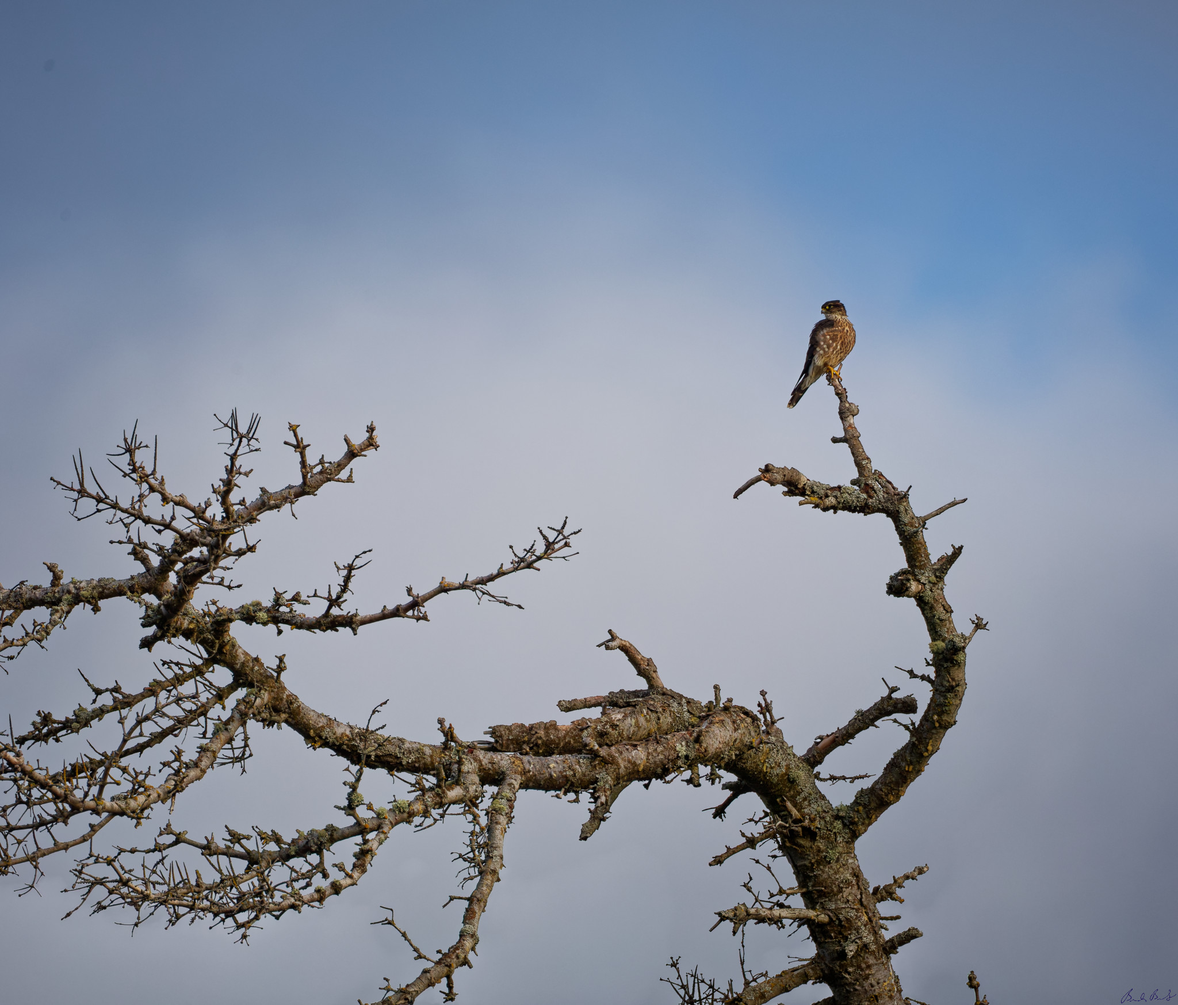
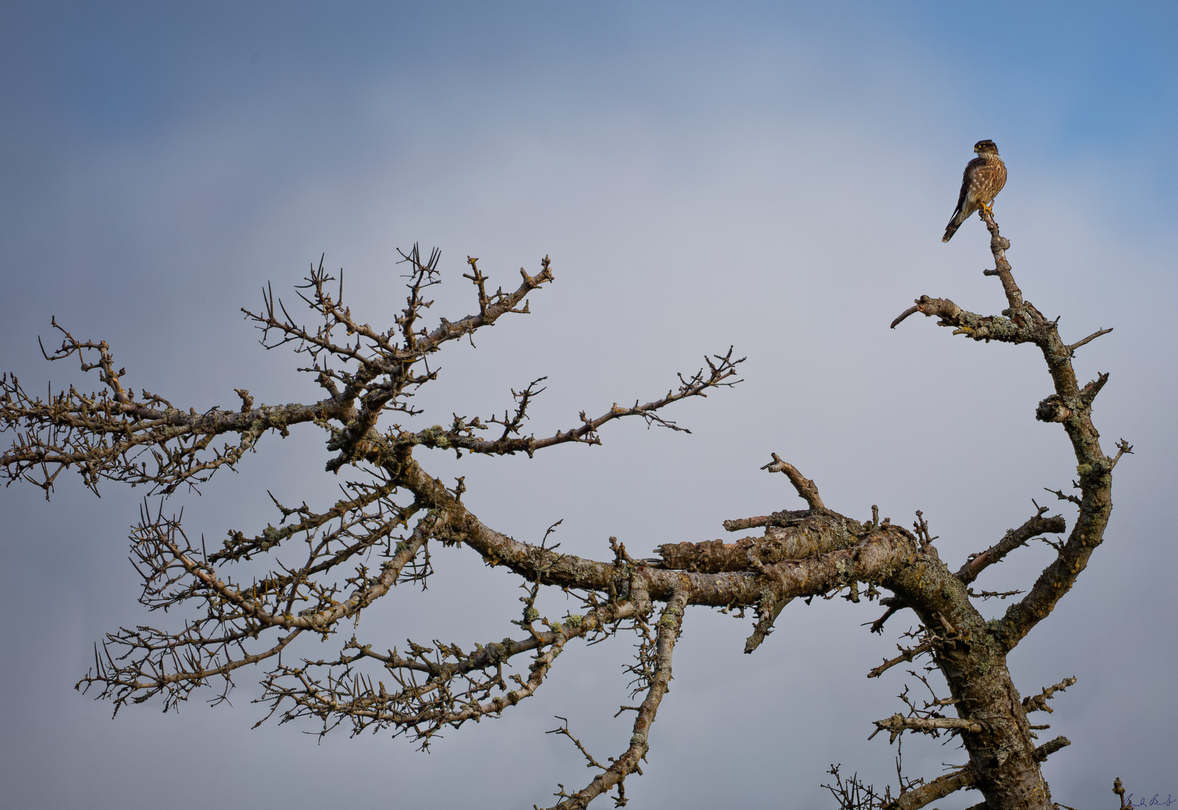
Add new photos and update existing ones in the pics/photos directory
- Added new images: 118A7140_DxO.jpg, 118A7902_DxO.jpg, and 118A8324_DxO.jpg
- Updated existing image: 118A7624_DxO.jpg

diff --git a/photography.html b/photography.html
@@ -41,194 +41,197 @@
     <main id="photography-content">
       <h1>Photography</h1>
       <div class="photo-gallery">
-        <a href="pics/photos/118A7470_DxO.jpg"><img src="pics/photos/118A7470_DxO.jpg" alt="Photograph by Brandon Benton"></a>
-        <a href="pics/photos/118A7933_DxO.jpg"><img src="pics/photos/118A7933_DxO.jpg" alt="Photograph by Brandon Benton"></a>
-        <a href="pics/photos/118A8192_DxO.jpg"><img src="pics/photos/118A8192_DxO.jpg" alt="Photograph by Brandon Benton"></a>
-        <a href="pics/photos/118A8208_DxO.jpg"><img src="pics/photos/118A8208_DxO.jpg" alt="Photograph by Brandon Benton"></a>
-        <a href="pics/photos/118A8177_DxO.jpg"><img src="pics/photos/118A8177_DxO.jpg" alt="Photograph by Brandon Benton"></a>
-        <a href="pics/photos/118A8288_DxO.jpg"><img src="pics/photos/118A8288_DxO.jpg" alt="Photograph by Brandon Benton"></a>
-        <a href="pics/photos/118A8229_DxO.jpg"><img src="pics/photos/118A8229_DxO.jpg" alt="Photograph by Brandon Benton"></a>
-        <a href="pics/photos/118A8251_DxO.jpg"><img src="pics/photos/118A8251_DxO.jpg" alt="Photograph by Brandon Benton"></a>
-        <a href="pics/photos/118A8306_DxO.jpg"><img src="pics/photos/118A8306_DxO.jpg" alt="Photograph by Brandon Benton"></a>
-        <a href="pics/photos/118A8325_DxO.jpg"><img src="pics/photos/118A8325_DxO.jpg" alt="Photograph by Brandon Benton"></a>
         <a href="pics/photos/118A8439_DxO.jpg"><img src="pics/photos/118A8439_DxO.jpg" alt="Photograph by Brandon Benton"></a>
         <a href="pics/photos/118A8435_DxO.jpg"><img src="pics/photos/118A8435_DxO.jpg" alt="Photograph by Brandon Benton"></a>
-        <a href="pics/photos/118A8178_DxO.jpg"><img src="pics/photos/118A8178_DxO.jpg" alt="Photograph by Brandon Benton"></a>
+        <a href="pics/photos/118A8325_DxO.jpg"><img src="pics/photos/118A8325_DxO.jpg" alt="Photograph by Brandon Benton"></a>
+        <a href="pics/photos/118A8324_DxO.jpg"><img src="pics/photos/118A8324_DxO.jpg" alt="Photograph by Brandon Benton"></a>
+        <a href="pics/photos/118A8306_DxO.jpg"><img src="pics/photos/118A8306_DxO.jpg" alt="Photograph by Brandon Benton"></a>
+        <a href="pics/photos/118A8288_DxO.jpg"><img src="pics/photos/118A8288_DxO.jpg" alt="Photograph by Brandon Benton"></a>
+        <a href="pics/photos/118A8251_DxO.jpg"><img src="pics/photos/118A8251_DxO.jpg" alt="Photograph by Brandon Benton"></a>
+        <a href="pics/photos/118A8229_DxO.jpg"><img src="pics/photos/118A8229_DxO.jpg" alt="Photograph by Brandon Benton"></a>
+        <a href="pics/photos/118A8208_DxO.jpg"><img src="pics/photos/118A8208_DxO.jpg" alt="Photograph by Brandon Benton"></a>
+        <a href="pics/photos/118A8192_DxO.jpg"><img src="pics/photos/118A8192_DxO.jpg" alt="Photograph by Brandon Benton"></a>
         <a href="pics/photos/118A8180_DxO.jpg"><img src="pics/photos/118A8180_DxO.jpg" alt="Photograph by Brandon Benton"></a>
-        <a href="pics/photos/118A7599_DxO.jpg"><img src="pics/photos/118A7599_DxO.jpg" alt="Photograph by Brandon Benton"></a>
-        <a href="pics/photos/118A7892_DxO.jpg"><img src="pics/photos/118A7892_DxO.jpg" alt="Photograph by Brandon Benton"></a>
-        <a href="pics/photos/118A7944_DxO.jpg"><img src="pics/photos/118A7944_DxO.jpg" alt="Photograph by Brandon Benton"></a>
-        <a href="pics/photos/118A7946_DxO.jpg"><img src="pics/photos/118A7946_DxO.jpg" alt="Photograph by Brandon Benton"></a>
-        <a href="pics/photos/118A7947_DxO.jpg"><img src="pics/photos/118A7947_DxO.jpg" alt="Photograph by Brandon Benton"></a>
+        <a href="pics/photos/118A8178_DxO.jpg"><img src="pics/photos/118A8178_DxO.jpg" alt="Photograph by Brandon Benton"></a>
+        <a href="pics/photos/118A8177_DxO.jpg"><img src="pics/photos/118A8177_DxO.jpg" alt="Photograph by Brandon Benton"></a>
         <a href="pics/photos/118A8044_DxO.jpg"><img src="pics/photos/118A8044_DxO.jpg" alt="Photograph by Brandon Benton"></a>
         <a href="pics/photos/118A8011_DxO.jpg"><img src="pics/photos/118A8011_DxO.jpg" alt="Photograph by Brandon Benton"></a>
         <a href="pics/photos/118A7966_DxO.jpg"><img src="pics/photos/118A7966_DxO.jpg" alt="Photograph by Brandon Benton"></a>
-        <a href="pics/photos/118A7616_DxO.jpg"><img src="pics/photos/118A7616_DxO.jpg" alt="Photograph by Brandon Benton"></a>
-        <a href="pics/photos/118A7658_DxO.jpg"><img src="pics/photos/118A7658_DxO.jpg" alt="Photograph by Brandon Benton"></a>
-        <a href="pics/photos/118A7689_DxO.jpg"><img src="pics/photos/118A7689_DxO.jpg" alt="Photograph by Brandon Benton"></a>
-        <a href="pics/photos/118A7379_DxO.jpg"><img src="pics/photos/118A7379_DxO.jpg" alt="Photograph by Brandon Benton"></a>
-        <a href="pics/photos/118A7424_DxO.jpg"><img src="pics/photos/118A7424_DxO.jpg" alt="Photograph by Brandon Benton"></a>
-        <a href="pics/photos/118A7390_DxO.jpg"><img src="pics/photos/118A7390_DxO.jpg" alt="Photograph by Brandon Benton"></a>
-        <a href="pics/photos/118A7439_DxO.jpg"><img src="pics/photos/118A7439_DxO.jpg" alt="Photograph by Brandon Benton"></a>
-        <a href="pics/photos/118A7392_DxO.jpg"><img src="pics/photos/118A7392_DxO.jpg" alt="Photograph by Brandon Benton"></a>
+        <a href="pics/photos/118A7947_DxO.jpg"><img src="pics/photos/118A7947_DxO.jpg" alt="Photograph by Brandon Benton"></a>
+        <a href="pics/photos/118A7946_DxO.jpg"><img src="pics/photos/118A7946_DxO.jpg" alt="Photograph by Brandon Benton"></a>
+        <a href="pics/photos/118A7944_DxO.jpg"><img src="pics/photos/118A7944_DxO.jpg" alt="Photograph by Brandon Benton"></a>
+        <a href="pics/photos/118A7933_DxO.jpg"><img src="pics/photos/118A7933_DxO.jpg" alt="Photograph by Brandon Benton"></a>
+        <a href="pics/photos/118A7925_DxO.jpg"><img src="pics/photos/118A7925_DxO.jpg" alt="Photograph by Brandon Benton"></a>
         <a href="pics/photos/118A7912_DxO.jpg"><img src="pics/photos/118A7912_DxO.jpg" alt="Photograph by Brandon Benton"></a>
-        <a href="pics/photos/118A7620_DxO.jpg"><img src="pics/photos/118A7620_DxO.jpg" alt="Photograph by Brandon Benton"></a>
-        <a href="pics/photos/118A7624_DxO.jpg"><img src="pics/photos/118A7624_DxO.jpg" alt="Photograph by Brandon Benton"></a>
-        <a href="pics/photos/118A7788_DxO.jpg"><img src="pics/photos/118A7788_DxO.jpg" alt="Photograph by Brandon Benton"></a>
+        <a href="pics/photos/118A7902_DxO.jpg"><img src="pics/photos/118A7902_DxO.jpg" alt="Photograph by Brandon Benton"></a>
+        <a href="pics/photos/118A7892_DxO.jpg"><img src="pics/photos/118A7892_DxO.jpg" alt="Photograph by Brandon Benton"></a>
         <a href="pics/photos/118A7814_DxO.jpg"><img src="pics/photos/118A7814_DxO.jpg" alt="Photograph by Brandon Benton"></a>
         <a href="pics/photos/118A7810_DxO.jpg"><img src="pics/photos/118A7810_DxO.jpg" alt="Photograph by Brandon Benton"></a>
-        <a href="pics/photos/118A7925_DxO.jpg"><img src="pics/photos/118A7925_DxO.jpg" alt="Photograph by Brandon Benton"></a>
+        <a href="pics/photos/118A7788_DxO.jpg"><img src="pics/photos/118A7788_DxO.jpg" alt="Photograph by Brandon Benton"></a>
+        <a href="pics/photos/118A7689_DxO.jpg"><img src="pics/photos/118A7689_DxO.jpg" alt="Photograph by Brandon Benton"></a>
+        <a href="pics/photos/118A7658_DxO.jpg"><img src="pics/photos/118A7658_DxO.jpg" alt="Photograph by Brandon Benton"></a>
+        <a href="pics/photos/118A7624_DxO.jpg"><img src="pics/photos/118A7624_DxO.jpg" alt="Photograph by Brandon Benton"></a>
+        <a href="pics/photos/118A7620_DxO.jpg"><img src="pics/photos/118A7620_DxO.jpg" alt="Photograph by Brandon Benton"></a>
+        <a href="pics/photos/118A7616_DxO.jpg"><img src="pics/photos/118A7616_DxO.jpg" alt="Photograph by Brandon Benton"></a>
+        <a href="pics/photos/118A7599_DxO.jpg"><img src="pics/photos/118A7599_DxO.jpg" alt="Photograph by Brandon Benton"></a>
+        <a href="pics/photos/118A7470_DxO.jpg"><img src="pics/photos/118A7470_DxO.jpg" alt="Photograph by Brandon Benton"></a>
+        <a href="pics/photos/118A7439_DxO.jpg"><img src="pics/photos/118A7439_DxO.jpg" alt="Photograph by Brandon Benton"></a>
+        <a href="pics/photos/118A7424_DxO.jpg"><img src="pics/photos/118A7424_DxO.jpg" alt="Photograph by Brandon Benton"></a>
+        <a href="pics/photos/118A7392_DxO.jpg"><img src="pics/photos/118A7392_DxO.jpg" alt="Photograph by Brandon Benton"></a>
+        <a href="pics/photos/118A7390_DxO.jpg"><img src="pics/photos/118A7390_DxO.jpg" alt="Photograph by Brandon Benton"></a>
+        <a href="pics/photos/118A7379_DxO.jpg"><img src="pics/photos/118A7379_DxO.jpg" alt="Photograph by Brandon Benton"></a>
         <a href="pics/photos/118A7332_DxO.jpg"><img src="pics/photos/118A7332_DxO.jpg" alt="Photograph by Brandon Benton"></a>
-        <a href="pics/photos/118A7222_DxO.jpg"><img src="pics/photos/118A7222_DxO.jpg" alt="Photograph by Brandon Benton"></a>
-        <a href="pics/photos/118A7309_DxO.jpg"><img src="pics/photos/118A7309_DxO.jpg" alt="Photograph by Brandon Benton"></a>
-        <a href="pics/photos/118A7233_DxO.jpg"><img src="pics/photos/118A7233_DxO.jpg" alt="Photograph by Brandon Benton"></a>
-        <a href="pics/photos/118A7247_DxO.jpg"><img src="pics/photos/118A7247_DxO.jpg" alt="Photograph by Brandon Benton"></a>
         <a href="pics/photos/118A7314_DxO.jpg"><img src="pics/photos/118A7314_DxO.jpg" alt="Photograph by Brandon Benton"></a>
-        <a href="pics/photos/118A7240_DxO.jpg"><img src="pics/photos/118A7240_DxO.jpg" alt="Photograph by Brandon Benton"></a>
+        <a href="pics/photos/118A7310_DxO.jpg"><img src="pics/photos/118A7310_DxO.jpg" alt="Photograph by Brandon Benton"></a>
+        <a href="pics/photos/118A7309_DxO.jpg"><img src="pics/photos/118A7309_DxO.jpg" alt="Photograph by Brandon Benton"></a>
         <a href="pics/photos/118A7304_DxO.jpg"><img src="pics/photos/118A7304_DxO.jpg" alt="Photograph by Brandon Benton"></a>
         <a href="pics/photos/118A7262_DxO.jpg"><img src="pics/photos/118A7262_DxO.jpg" alt="Photograph by Brandon Benton"></a>
-        <a href="pics/photos/118A7310_DxO.jpg"><img src="pics/photos/118A7310_DxO.jpg" alt="Photograph by Brandon Benton"></a>
-        <a href="pics/photos/118A7142_DxO.jpg"><img src="pics/photos/118A7142_DxO.jpg" alt="Photograph by Brandon Benton"></a>
-        <a href="pics/photos/118A7158_DxO.jpg"><img src="pics/photos/118A7158_DxO.jpg" alt="Photograph by Brandon Benton"></a>
+        <a href="pics/photos/118A7247_DxO.jpg"><img src="pics/photos/118A7247_DxO.jpg" alt="Photograph by Brandon Benton"></a>
+        <a href="pics/photos/118A7240_DxO.jpg"><img src="pics/photos/118A7240_DxO.jpg" alt="Photograph by Brandon Benton"></a>
+        <a href="pics/photos/118A7233_DxO.jpg"><img src="pics/photos/118A7233_DxO.jpg" alt="Photograph by Brandon Benton"></a>
+        <a href="pics/photos/118A7222_DxO.jpg"><img src="pics/photos/118A7222_DxO.jpg" alt="Photograph by Brandon Benton"></a>
         <a href="pics/photos/118A7162_DxO.jpg"><img src="pics/photos/118A7162_DxO.jpg" alt="Photograph by Brandon Benton"></a>
+        <a href="pics/photos/118A7158_DxO.jpg"><img src="pics/photos/118A7158_DxO.jpg" alt="Photograph by Brandon Benton"></a>
+        <a href="pics/photos/118A7142_DxO.jpg"><img src="pics/photos/118A7142_DxO.jpg" alt="Photograph by Brandon Benton"></a>
+        <a href="pics/photos/118A7140_DxO.jpg"><img src="pics/photos/118A7140_DxO.jpg" alt="Photograph by Brandon Benton"></a>
         <a href="pics/photos/118A7126_DxO.jpg"><img src="pics/photos/118A7126_DxO.jpg" alt="Photograph by Brandon Benton"></a>
-        <a href="pics/photos/118A6766_DxO.jpg"><img src="pics/photos/118A6766_DxO.jpg" alt="Photograph by Brandon Benton"></a>
-        <a href="pics/photos/118A6771_DxO.jpg"><img src="pics/photos/118A6771_DxO.jpg" alt="Photograph by Brandon Benton"></a>
-        <a href="pics/photos/118A6759_DxO.jpg"><img src="pics/photos/118A6759_DxO.jpg" alt="Photograph by Brandon Benton"></a>
         <a href="pics/photos/118A7072_DxO.jpg"><img src="pics/photos/118A7072_DxO.jpg" alt="Photograph by Brandon Benton"></a>
-        <a href="pics/photos/118A6981_DxO.jpg"><img src="pics/photos/118A6981_DxO.jpg" alt="Photograph by Brandon Benton"></a>
-        <a href="pics/photos/118A7004_DxO.jpg"><img src="pics/photos/118A7004_DxO.jpg" alt="Photograph by Brandon Benton"></a>
-        <a href="pics/photos/118A7007_DxO.jpg"><img src="pics/photos/118A7007_DxO.jpg" alt="Photograph by Brandon Benton"></a>
-        <a href="pics/photos/118A7001_DxO.jpg"><img src="pics/photos/118A7001_DxO.jpg" alt="Photograph by Brandon Benton"></a>
-        <a href="pics/photos/118A6942_DxO.jpg"><img src="pics/photos/118A6942_DxO.jpg" alt="Photograph by Brandon Benton"></a>
-        <a href="pics/photos/118A6933_DxO.jpg"><img src="pics/photos/118A6933_DxO.jpg" alt="Photograph by Brandon Benton"></a>
-        <a href="pics/photos/118A6934_DxO.jpg"><img src="pics/photos/118A6934_DxO.jpg" alt="Photograph by Brandon Benton"></a>
-        <a href="pics/photos/118A6935_DxO.jpg"><img src="pics/photos/118A6935_DxO.jpg" alt="Photograph by Brandon Benton"></a>
-        <a href="pics/photos/118A6927_DxO.jpg"><img src="pics/photos/118A6927_DxO.jpg" alt="Photograph by Brandon Benton"></a>
-        <a href="pics/photos/118A6943_DxO.jpg"><img src="pics/photos/118A6943_DxO.jpg" alt="Photograph by Brandon Benton"></a>
         <a href="pics/photos/118A7009_DxO.jpg"><img src="pics/photos/118A7009_DxO.jpg" alt="Photograph by Brandon Benton"></a>
-        <a href="pics/photos/118A1707_DxO.jpg"><img src="pics/photos/118A1707_DxO.jpg" alt="Photograph by Brandon Benton"></a>
-        <a href="pics/photos/118A6454_DxO.jpg"><img src="pics/photos/118A6454_DxO.jpg" alt="Photograph by Brandon Benton"></a>
-        <a href="pics/photos/118A6246_DxO.jpg"><img src="pics/photos/118A6246_DxO.jpg" alt="Photograph by Brandon Benton"></a>
-        <a href="pics/photos/118A6232_DxO.jpg"><img src="pics/photos/118A6232_DxO.jpg" alt="Photograph by Brandon Benton"></a>
-        <a href="pics/photos/118A6254_DxO.jpg"><img src="pics/photos/118A6254_DxO.jpg" alt="Photograph by Brandon Benton"></a>
-        <a href="pics/photos/118A6330_DxO.jpg"><img src="pics/photos/118A6330_DxO.jpg" alt="Photograph by Brandon Benton"></a>
-        <a href="pics/photos/118A6418_DxO.jpg"><img src="pics/photos/118A6418_DxO.jpg" alt="Photograph by Brandon Benton"></a>
-        <a href="pics/photos/118A6445_DxO.jpg"><img src="pics/photos/118A6445_DxO.jpg" alt="Photograph by Brandon Benton"></a>
+        <a href="pics/photos/118A7007_DxO.jpg"><img src="pics/photos/118A7007_DxO.jpg" alt="Photograph by Brandon Benton"></a>
+        <a href="pics/photos/118A7004_DxO.jpg"><img src="pics/photos/118A7004_DxO.jpg" alt="Photograph by Brandon Benton"></a>
+        <a href="pics/photos/118A7001_DxO.jpg"><img src="pics/photos/118A7001_DxO.jpg" alt="Photograph by Brandon Benton"></a>
+        <a href="pics/photos/118A6981_DxO.jpg"><img src="pics/photos/118A6981_DxO.jpg" alt="Photograph by Brandon Benton"></a>
+        <a href="pics/photos/118A6943_DxO.jpg"><img src="pics/photos/118A6943_DxO.jpg" alt="Photograph by Brandon Benton"></a>
+        <a href="pics/photos/118A6942_DxO.jpg"><img src="pics/photos/118A6942_DxO.jpg" alt="Photograph by Brandon Benton"></a>
+        <a href="pics/photos/118A6935_DxO.jpg"><img src="pics/photos/118A6935_DxO.jpg" alt="Photograph by Brandon Benton"></a>
+        <a href="pics/photos/118A6934_DxO.jpg"><img src="pics/photos/118A6934_DxO.jpg" alt="Photograph by Brandon Benton"></a>
+        <a href="pics/photos/118A6933_DxO.jpg"><img src="pics/photos/118A6933_DxO.jpg" alt="Photograph by Brandon Benton"></a>
+        <a href="pics/photos/118A6927_DxO.jpg"><img src="pics/photos/118A6927_DxO.jpg" alt="Photograph by Brandon Benton"></a>
+        <a href="pics/photos/118A6771_DxO.jpg"><img src="pics/photos/118A6771_DxO.jpg" alt="Photograph by Brandon Benton"></a>
+        <a href="pics/photos/118A6766_DxO.jpg"><img src="pics/photos/118A6766_DxO.jpg" alt="Photograph by Brandon Benton"></a>
+        <a href="pics/photos/118A6759_DxO.jpg"><img src="pics/photos/118A6759_DxO.jpg" alt="Photograph by Brandon Benton"></a>
         <a href="pics/photos/118A6458_DxO.jpg"><img src="pics/photos/118A6458_DxO.jpg" alt="Photograph by Brandon Benton"></a>
+        <a href="pics/photos/118A6454_DxO.jpg"><img src="pics/photos/118A6454_DxO.jpg" alt="Photograph by Brandon Benton"></a>
+        <a href="pics/photos/118A6445_DxO.jpg"><img src="pics/photos/118A6445_DxO.jpg" alt="Photograph by Brandon Benton"></a>
+        <a href="pics/photos/118A6418_DxO.jpg"><img src="pics/photos/118A6418_DxO.jpg" alt="Photograph by Brandon Benton"></a>
         <a href="pics/photos/118A6396_DxO.jpg"><img src="pics/photos/118A6396_DxO.jpg" alt="Photograph by Brandon Benton"></a>
+        <a href="pics/photos/118A6372_DxO.jpg"><img src="pics/photos/118A6372_DxO.jpg" alt="Photograph by Brandon Benton"></a>
+        <a href="pics/photos/118A6349_DxO.jpg"><img src="pics/photos/118A6349_DxO.jpg" alt="Photograph by Brandon Benton"></a>
+        <a href="pics/photos/118A6330_DxO.jpg"><img src="pics/photos/118A6330_DxO.jpg" alt="Photograph by Brandon Benton"></a>
         <a href="pics/photos/118A6317_DxO.jpg"><img src="pics/photos/118A6317_DxO.jpg" alt="Photograph by Brandon Benton"></a>
         <a href="pics/photos/118A6289_DxO.jpg"><img src="pics/photos/118A6289_DxO.jpg" alt="Photograph by Brandon Benton"></a>
-        <a href="pics/photos/118A6349_DxO.jpg"><img src="pics/photos/118A6349_DxO.jpg" alt="Photograph by Brandon Benton"></a>
-        <a href="pics/photos/118A6372_DxO.jpg"><img src="pics/photos/118A6372_DxO.jpg" alt="Photograph by Brandon Benton"></a>
-        <a href="pics/photos/118A5537_DxO.jpg"><img src="pics/photos/118A5537_DxO.jpg" alt="Photograph by Brandon Benton"></a>
-        <a href="pics/photos/118A6047_DxO.jpg"><img src="pics/photos/118A6047_DxO.jpg" alt="Photograph by Brandon Benton"></a>
-        <a href="pics/photos/118A6083_DxO.jpg"><img src="pics/photos/118A6083_DxO.jpg" alt="Photograph by Brandon Benton"></a>
-        <a href="pics/photos/118A6088_DxO.jpg"><img src="pics/photos/118A6088_DxO.jpg" alt="Photograph by Brandon Benton"></a>
-        <a href="pics/photos/118A6089_DxO.jpg"><img src="pics/photos/118A6089_DxO.jpg" alt="Photograph by Brandon Benton"></a>
-        <a href="pics/photos/118A6090_DxO.jpg"><img src="pics/photos/118A6090_DxO.jpg" alt="Photograph by Brandon Benton"></a>
+        <a href="pics/photos/118A6254_DxO.jpg"><img src="pics/photos/118A6254_DxO.jpg" alt="Photograph by Brandon Benton"></a>
+        <a href="pics/photos/118A6246_DxO.jpg"><img src="pics/photos/118A6246_DxO.jpg" alt="Photograph by Brandon Benton"></a>
+        <a href="pics/photos/118A6232_DxO.jpg"><img src="pics/photos/118A6232_DxO.jpg" alt="Photograph by Brandon Benton"></a>
         <a href="pics/photos/118A6093_DxO.jpg"><img src="pics/photos/118A6093_DxO.jpg" alt="Photograph by Brandon Benton"></a>
+        <a href="pics/photos/118A6090_DxO.jpg"><img src="pics/photos/118A6090_DxO.jpg" alt="Photograph by Brandon Benton"></a>
+        <a href="pics/photos/118A6089_DxO.jpg"><img src="pics/photos/118A6089_DxO.jpg" alt="Photograph by Brandon Benton"></a>
+        <a href="pics/photos/118A6088_DxO.jpg"><img src="pics/photos/118A6088_DxO.jpg" alt="Photograph by Brandon Benton"></a>
+        <a href="pics/photos/118A6083_DxO.jpg"><img src="pics/photos/118A6083_DxO.jpg" alt="Photograph by Brandon Benton"></a>
+        <a href="pics/photos/118A6047_DxO.jpg"><img src="pics/photos/118A6047_DxO.jpg" alt="Photograph by Brandon Benton"></a>
         <a href="pics/photos/118A6045_DxO.jpg"><img src="pics/photos/118A6045_DxO.jpg" alt="Photograph by Brandon Benton"></a>
+        <a href="pics/photos/118A6007_DxO.jpg"><img src="pics/photos/118A6007_DxO.jpg" alt="Photograph by Brandon Benton"></a>
         <a href="pics/photos/118A5931_DxO.jpg"><img src="pics/photos/118A5931_DxO.jpg" alt="Photograph by Brandon Benton"></a>
         <a href="pics/photos/118A5928_DxO.jpg"><img src="pics/photos/118A5928_DxO.jpg" alt="Photograph by Brandon Benton"></a>
         <a href="pics/photos/118A5908_DxO.jpg"><img src="pics/photos/118A5908_DxO.jpg" alt="Photograph by Brandon Benton"></a>
         <a href="pics/photos/118A5877_DxO.jpg"><img src="pics/photos/118A5877_DxO.jpg" alt="Photograph by Brandon Benton"></a>
-        <a href="pics/photos/118A6007_DxO.jpg"><img src="pics/photos/118A6007_DxO.jpg" alt="Photograph by Brandon Benton"></a>
-        <a href="pics/photos/118A5659_DxO.jpg"><img src="pics/photos/118A5659_DxO.jpg" alt="Photograph by Brandon Benton"></a>
-        <a href="pics/photos/118A5338_DxO.jpg"><img src="pics/photos/118A5338_DxO.jpg" alt="Photograph by Brandon Benton"></a>
-        <a href="pics/photos/118A5208_DxO-1.jpg"><img src="pics/photos/118A5208_DxO-1.jpg" alt="Photograph by Brandon Benton"></a>
-        <a href="pics/photos/118A5208_DxO.jpg"><img src="pics/photos/118A5208_DxO.jpg" alt="Photograph by Brandon Benton"></a>
-        <a href="pics/photos/118A5221_DxO.jpg"><img src="pics/photos/118A5221_DxO.jpg" alt="Photograph by Brandon Benton"></a>
-        <a href="pics/photos/118A5206_DxO.jpg"><img src="pics/photos/118A5206_DxO.jpg" alt="Photograph by Brandon Benton"></a>
-        <a href="pics/photos/118A5115_DxO.jpg"><img src="pics/photos/118A5115_DxO.jpg" alt="Photograph by Brandon Benton"></a>
-        <a href="pics/photos/118A5808_DxO.jpg"><img src="pics/photos/118A5808_DxO.jpg" alt="Photograph by Brandon Benton"></a>
-        <a href="pics/photos/118A5814_DxO.jpg"><img src="pics/photos/118A5814_DxO.jpg" alt="Photograph by Brandon Benton"></a>
         <a href="pics/photos/118A5859_DxO.jpg"><img src="pics/photos/118A5859_DxO.jpg" alt="Photograph by Brandon Benton"></a>
-        <a href="pics/photos/118A5590_DxO.jpg"><img src="pics/photos/118A5590_DxO.jpg" alt="Photograph by Brandon Benton"></a>
+        <a href="pics/photos/118A5814_DxO.jpg"><img src="pics/photos/118A5814_DxO.jpg" alt="Photograph by Brandon Benton"></a>
+        <a href="pics/photos/118A5808_DxO.jpg"><img src="pics/photos/118A5808_DxO.jpg" alt="Photograph by Brandon Benton"></a>
+        <a href="pics/photos/118A5659_DxO.jpg"><img src="pics/photos/118A5659_DxO.jpg" alt="Photograph by Brandon Benton"></a>
         <a href="pics/photos/118A5617_DxO.jpg"><img src="pics/photos/118A5617_DxO.jpg" alt="Photograph by Brandon Benton"></a>
-        <a href="pics/photos/118A5102_DxO.jpg"><img src="pics/photos/118A5102_DxO.jpg" alt="Photograph by Brandon Benton"></a>
+        <a href="pics/photos/118A5590_DxO.jpg"><img src="pics/photos/118A5590_DxO.jpg" alt="Photograph by Brandon Benton"></a>
+        <a href="pics/photos/118A5537_DxO.jpg"><img src="pics/photos/118A5537_DxO.jpg" alt="Photograph by Brandon Benton"></a>
         <a href="pics/photos/118A5444_DxO.jpg"><img src="pics/photos/118A5444_DxO.jpg" alt="Photograph by Brandon Benton"></a>
+        <a href="pics/photos/118A5338_DxO.jpg"><img src="pics/photos/118A5338_DxO.jpg" alt="Photograph by Brandon Benton"></a>
         <a href="pics/photos/118A5302_DxO.jpg"><img src="pics/photos/118A5302_DxO.jpg" alt="Photograph by Brandon Benton"></a>
         <a href="pics/photos/118A5287_DxO.jpg"><img src="pics/photos/118A5287_DxO.jpg" alt="Photograph by Brandon Benton"></a>
         <a href="pics/photos/118A5282_DxO.jpg"><img src="pics/photos/118A5282_DxO.jpg" alt="Photograph by Brandon Benton"></a>
         <a href="pics/photos/118A5279_DxO.jpg"><img src="pics/photos/118A5279_DxO.jpg" alt="Photograph by Brandon Benton"></a>
         <a href="pics/photos/118A5230_DxO.jpg"><img src="pics/photos/118A5230_DxO.jpg" alt="Photograph by Brandon Benton"></a>
+        <a href="pics/photos/118A5221_DxO.jpg"><img src="pics/photos/118A5221_DxO.jpg" alt="Photograph by Brandon Benton"></a>
         <a href="pics/photos/118A5220_DxO.jpg"><img src="pics/photos/118A5220_DxO.jpg" alt="Photograph by Brandon Benton"></a>
         <a href="pics/photos/118A5212_DxO.jpg"><img src="pics/photos/118A5212_DxO.jpg" alt="Photograph by Brandon Benton"></a>
+        <a href="pics/photos/118A5208_DxO-1.jpg"><img src="pics/photos/118A5208_DxO-1.jpg" alt="Photograph by Brandon Benton"></a>
+        <a href="pics/photos/118A5208_DxO.jpg"><img src="pics/photos/118A5208_DxO.jpg" alt="Photograph by Brandon Benton"></a>
+        <a href="pics/photos/118A5206_DxO.jpg"><img src="pics/photos/118A5206_DxO.jpg" alt="Photograph by Brandon Benton"></a>
         <a href="pics/photos/118A5205_DxO.jpg"><img src="pics/photos/118A5205_DxO.jpg" alt="Photograph by Brandon Benton"></a>
         <a href="pics/photos/118A5195_DxO.jpg"><img src="pics/photos/118A5195_DxO.jpg" alt="Photograph by Brandon Benton"></a>
+        <a href="pics/photos/118A5171_DxO.jpg"><img src="pics/photos/118A5171_DxO.jpg" alt="Photograph by Brandon Benton"></a>
         <a href="pics/photos/118A5163_DxO.jpg"><img src="pics/photos/118A5163_DxO.jpg" alt="Photograph by Brandon Benton"></a>
         <a href="pics/photos/118A5157_DxO.jpg"><img src="pics/photos/118A5157_DxO.jpg" alt="Photograph by Brandon Benton"></a>
         <a href="pics/photos/118A5152_DxO.jpg"><img src="pics/photos/118A5152_DxO.jpg" alt="Photograph by Brandon Benton"></a>
-        <a href="pics/photos/118A5171_DxO.jpg"><img src="pics/photos/118A5171_DxO.jpg" alt="Photograph by Brandon Benton"></a>
         <a href="pics/photos/118A5147_DxO.jpg"><img src="pics/photos/118A5147_DxO.jpg" alt="Photograph by Brandon Benton"></a>
-        <a href="pics/photos/IMG_3960_DxO.jpg"><img src="pics/photos/IMG_3960_DxO.jpg" alt="Photograph by Brandon Benton"></a>
-        <a href="pics/photos/IMG_3677_DxO.jpg"><img src="pics/photos/IMG_3677_DxO.jpg" alt="Photograph by Brandon Benton"></a>
+        <a href="pics/photos/118A5115_DxO.jpg"><img src="pics/photos/118A5115_DxO.jpg" alt="Photograph by Brandon Benton"></a>
+        <a href="pics/photos/118A5102_DxO.jpg"><img src="pics/photos/118A5102_DxO.jpg" alt="Photograph by Brandon Benton"></a>
+        <a href="pics/photos/118A4760_DxO.jpg"><img src="pics/photos/118A4760_DxO.jpg" alt="Photograph by Brandon Benton"></a>
+        <a href="pics/photos/118A4759_DxO.jpg"><img src="pics/photos/118A4759_DxO.jpg" alt="Photograph by Brandon Benton"></a>
+        <a href="pics/photos/118A4746_DxO.jpg"><img src="pics/photos/118A4746_DxO.jpg" alt="Photograph by Brandon Benton"></a>
+        <a href="pics/photos/118A4711_DxO.jpg"><img src="pics/photos/118A4711_DxO.jpg" alt="Photograph by Brandon Benton"></a>
+        <a href="pics/photos/118A4677_DxO.jpg"><img src="pics/photos/118A4677_DxO.jpg" alt="Photograph by Brandon Benton"></a>
+        <a href="pics/photos/118A4676_DxO.jpg"><img src="pics/photos/118A4676_DxO.jpg" alt="Photograph by Brandon Benton"></a>
+        <a href="pics/photos/118A4652_DxO.jpg"><img src="pics/photos/118A4652_DxO.jpg" alt="Photograph by Brandon Benton"></a>
+        <a href="pics/photos/118A4645_DxO.jpg"><img src="pics/photos/118A4645_DxO.jpg" alt="Photograph by Brandon Benton"></a>
+        <a href="pics/photos/118A4631_DxO.jpg"><img src="pics/photos/118A4631_DxO.jpg" alt="Photograph by Brandon Benton"></a>
+        <a href="pics/photos/118A4578_DxO.jpg"><img src="pics/photos/118A4578_DxO.jpg" alt="Photograph by Brandon Benton"></a>
+        <a href="pics/photos/118A4522_DxO.jpg"><img src="pics/photos/118A4522_DxO.jpg" alt="Photograph by Brandon Benton"></a>
+        <a href="pics/photos/118A4296_DxO.jpg"><img src="pics/photos/118A4296_DxO.jpg" alt="Photograph by Brandon Benton"></a>
+        <a href="pics/photos/118A4288_DxO.jpg"><img src="pics/photos/118A4288_DxO.jpg" alt="Photograph by Brandon Benton"></a>
+        <a href="pics/photos/118A4262_DxO.jpg"><img src="pics/photos/118A4262_DxO.jpg" alt="Photograph by Brandon Benton"></a>
+        <a href="pics/photos/118A4142_DxO.jpg"><img src="pics/photos/118A4142_DxO.jpg" alt="Photograph by Brandon Benton"></a>
+        <a href="pics/photos/118A4076_DxO.jpg"><img src="pics/photos/118A4076_DxO.jpg" alt="Photograph by Brandon Benton"></a>
+        <a href="pics/photos/118A4048_DxO-1.jpg"><img src="pics/photos/118A4048_DxO-1.jpg" alt="Photograph by Brandon Benton"></a>
+        <a href="pics/photos/118A4048_DxO.jpg"><img src="pics/photos/118A4048_DxO.jpg" alt="Photograph by Brandon Benton"></a>
+        <a href="pics/photos/118A3957_DxO.jpg"><img src="pics/photos/118A3957_DxO.jpg" alt="Photograph by Brandon Benton"></a>
+        <a href="pics/photos/118A3546_DxO.jpg"><img src="pics/photos/118A3546_DxO.jpg" alt="Photograph by Brandon Benton"></a>
+        <a href="pics/photos/118A3399_DxO.jpg"><img src="pics/photos/118A3399_DxO.jpg" alt="Photograph by Brandon Benton"></a>
+        <a href="pics/photos/118A3396_DxO.jpg"><img src="pics/photos/118A3396_DxO.jpg" alt="Photograph by Brandon Benton"></a>
+        <a href="pics/photos/118A2983_DxO.jpg"><img src="pics/photos/118A2983_DxO.jpg" alt="Photograph by Brandon Benton"></a>
+        <a href="pics/photos/118A2484_DxO.jpg"><img src="pics/photos/118A2484_DxO.jpg" alt="Photograph by Brandon Benton"></a>
+        <a href="pics/photos/118A2431_DxO.jpg"><img src="pics/photos/118A2431_DxO.jpg" alt="Photograph by Brandon Benton"></a>
+        <a href="pics/photos/118A2270_DxO.jpg"><img src="pics/photos/118A2270_DxO.jpg" alt="Photograph by Brandon Benton"></a>
+        <a href="pics/photos/118A1919_DxO.jpg"><img src="pics/photos/118A1919_DxO.jpg" alt="Photograph by Brandon Benton"></a>
+        <a href="pics/photos/118A1870_DxO.jpg"><img src="pics/photos/118A1870_DxO.jpg" alt="Photograph by Brandon Benton"></a>
+        <a href="pics/photos/118A1810_DxO.jpg"><img src="pics/photos/118A1810_DxO.jpg" alt="Photograph by Brandon Benton"></a>
+        <a href="pics/photos/118A1713_DxO.jpg"><img src="pics/photos/118A1713_DxO.jpg" alt="Photograph by Brandon Benton"></a>
+        <a href="pics/photos/118A1707_DxO.jpg"><img src="pics/photos/118A1707_DxO.jpg" alt="Photograph by Brandon Benton"></a>
+        <a href="pics/photos/118A0350_DxO.jpg"><img src="pics/photos/118A0350_DxO.jpg" alt="Photograph by Brandon Benton"></a>
+        <a href="pics/photos/118A0348_DxO.jpg"><img src="pics/photos/118A0348_DxO.jpg" alt="Photograph by Brandon Benton"></a>
+        <a href="pics/photos/118A9986_DxO.jpg"><img src="pics/photos/118A9986_DxO.jpg" alt="Photograph by Brandon Benton"></a>
+        <a href="pics/photos/118A9807_DxO.jpg"><img src="pics/photos/118A9807_DxO.jpg" alt="Photograph by Brandon Benton"></a>
+        <a href="pics/photos/118A9400_DxO.jpg"><img src="pics/photos/118A9400_DxO.jpg" alt="Photograph by Brandon Benton"></a>
+        <a href="pics/photos/4M6A9264_DxO.jpg"><img src="pics/photos/4M6A9264_DxO.jpg" alt="Photograph by Brandon Benton"></a>
+        <a href="pics/photos/4M6A9246_DxO.jpg"><img src="pics/photos/4M6A9246_DxO.jpg" alt="Photograph by Brandon Benton"></a>
         <a href="pics/photos/4M6A9177_DxO.jpg"><img src="pics/photos/4M6A9177_DxO.jpg" alt="Photograph by Brandon Benton"></a>
-        <a href="pics/photos/4M6A4996_DxO.jpg"><img src="pics/photos/4M6A4996_DxO.jpg" alt="Photograph by Brandon Benton"></a>
-        <a href="pics/photos/4M6A4992_DxO.jpg"><img src="pics/photos/4M6A4992_DxO.jpg" alt="Photograph by Brandon Benton"></a>
-        <a href="pics/photos/4M6A4995_DxO.jpg"><img src="pics/photos/4M6A4995_DxO.jpg" alt="Photograph by Brandon Benton"></a>
-        <a href="pics/photos/4M6A4924_DxO.jpg"><img src="pics/photos/4M6A4924_DxO.jpg" alt="Photograph by Brandon Benton"></a>
+        <a href="pics/photos/4M6A6647_DxO.jpg"><img src="pics/photos/4M6A6647_DxO.jpg" alt="Photograph by Brandon Benton"></a>
+        <a href="pics/photos/4M6A6136_DxO.jpg"><img src="pics/photos/4M6A6136_DxO.jpg" alt="Photograph by Brandon Benton"></a>
+        <a href="pics/photos/4M6A6122_DxO.jpg"><img src="pics/photos/4M6A6122_DxO.jpg" alt="Photograph by Brandon Benton"></a>
+        <a href="pics/photos/4M6A5968_DxO.jpg"><img src="pics/photos/4M6A5968_DxO.jpg" alt="Photograph by Brandon Benton"></a>
+        <a href="pics/photos/4M6A5931_DxO.jpg"><img src="pics/photos/4M6A5931_DxO.jpg" alt="Photograph by Brandon Benton"></a>
+        <a href="pics/photos/4M6A5347_DxO.jpg"><img src="pics/photos/4M6A5347_DxO.jpg" alt="Photograph by Brandon Benton"></a>
+        <a href="pics/photos/4M6A5337_DxO.jpg"><img src="pics/photos/4M6A5337_DxO.jpg" alt="Photograph by Brandon Benton"></a>
         <a href="pics/photos/4M6A5114_DxO.jpg"><img src="pics/photos/4M6A5114_DxO.jpg" alt="Photograph by Brandon Benton"></a>
         <a href="pics/photos/4M6A5111_DxO.jpg"><img src="pics/photos/4M6A5111_DxO.jpg" alt="Photograph by Brandon Benton"></a>
         <a href="pics/photos/4M6A5102_DxO.jpg"><img src="pics/photos/4M6A5102_DxO.jpg" alt="Photograph by Brandon Benton"></a>
         <a href="pics/photos/4M6A5096_DxO.jpg"><img src="pics/photos/4M6A5096_DxO.jpg" alt="Photograph by Brandon Benton"></a>
+        <a href="pics/photos/4M6A4996_DxO.jpg"><img src="pics/photos/4M6A4996_DxO.jpg" alt="Photograph by Brandon Benton"></a>
+        <a href="pics/photos/4M6A4995_DxO.jpg"><img src="pics/photos/4M6A4995_DxO.jpg" alt="Photograph by Brandon Benton"></a>
+        <a href="pics/photos/4M6A4992_DxO.jpg"><img src="pics/photos/4M6A4992_DxO.jpg" alt="Photograph by Brandon Benton"></a>
+        <a href="pics/photos/4M6A4924_DxO.jpg"><img src="pics/photos/4M6A4924_DxO.jpg" alt="Photograph by Brandon Benton"></a>
+        <a href="pics/photos/IMG_3960_DxO.jpg"><img src="pics/photos/IMG_3960_DxO.jpg" alt="Photograph by Brandon Benton"></a>
+        <a href="pics/photos/IMG_3801_DxO.jpg"><img src="pics/photos/IMG_3801_DxO.jpg" alt="Photograph by Brandon Benton"></a>
         <a href="pics/photos/IMG_3779_DxO.jpg"><img src="pics/photos/IMG_3779_DxO.jpg" alt="Photograph by Brandon Benton"></a>
+        <a href="pics/photos/IMG_3677_DxO.jpg"><img src="pics/photos/IMG_3677_DxO.jpg" alt="Photograph by Brandon Benton"></a>
+        <a href="pics/photos/IMG_3648_DxO.jpg"><img src="pics/photos/IMG_3648_DxO.jpg" alt="Photograph by Brandon Benton"></a>
+        <a href="pics/photos/IMG_3625_DxO.jpg"><img src="pics/photos/IMG_3625_DxO.jpg" alt="Photograph by Brandon Benton"></a>
+        <a href="pics/photos/IMG_3507_DxO.jpg"><img src="pics/photos/IMG_3507_DxO.jpg" alt="Photograph by Brandon Benton"></a>
+        <a href="pics/photos/20260710_8167_DxO.jpg"><img src="pics/photos/20260710_8167_DxO.jpg" alt="Photograph by Brandon Benton"></a>
         <a href="pics/photos/20260703_9553_DxO.jpg"><img src="pics/photos/20260703_9553_DxO.jpg" alt="Photograph by Brandon Benton"></a>
         <a href="pics/photos/20260703_1828_DxO.jpg"><img src="pics/photos/20260703_1828_DxO.jpg" alt="Photograph by Brandon Benton"></a>
-        <a href="pics/photos/IMG_3648_DxO.jpg"><img src="pics/photos/IMG_3648_DxO.jpg" alt="Photograph by Brandon Benton"></a>
-        <a href="pics/photos/IMG_3801_DxO.jpg"><img src="pics/photos/IMG_3801_DxO.jpg" alt="Photograph by Brandon Benton"></a>
-        <a href="pics/photos/IMG_3625_DxO.jpg"><img src="pics/photos/IMG_3625_DxO.jpg" alt="Photograph by Brandon Benton"></a>
-        <a href="pics/photos/118A4522_DxO.jpg"><img src="pics/photos/118A4522_DxO.jpg" alt="Photograph by Brandon Benton"></a>
-        <a href="pics/photos/118A4652_DxO.jpg"><img src="pics/photos/118A4652_DxO.jpg" alt="Photograph by Brandon Benton"></a>
-        <a href="pics/photos/4M6A6136_DxO.jpg"><img src="pics/photos/4M6A6136_DxO.jpg" alt="Photograph by Brandon Benton"></a>
-        <a href="pics/photos/118A4262_DxO.jpg"><img src="pics/photos/118A4262_DxO.jpg" alt="Photograph by Brandon Benton"></a>
-        <a href="pics/photos/118A4296_DxO.jpg"><img src="pics/photos/118A4296_DxO.jpg" alt="Photograph by Brandon Benton"></a>
-        <a href="pics/photos/118A4288_DxO.jpg"><img src="pics/photos/118A4288_DxO.jpg" alt="Photograph by Brandon Benton"></a>
-        <a href="pics/photos/20260703_1791_DxO.jpg"><img src="pics/photos/20260703_1791_DxO.jpg" alt="Photograph by Brandon Benton"></a>
+        <a href="pics/photos/20260703_1808_DxO.jpg"><img src="pics/photos/20260703_1808_DxO.jpg" alt="Photograph by Brandon Benton"></a>
         <a href="pics/photos/20260703_1806_DxO.jpg"><img src="pics/photos/20260703_1806_DxO.jpg" alt="Photograph by Brandon Benton"></a>
         <a href="pics/photos/20260703_1803_DxO.jpg"><img src="pics/photos/20260703_1803_DxO.jpg" alt="Photograph by Brandon Benton"></a>
-        <a href="pics/photos/20260703_1808_DxO.jpg"><img src="pics/photos/20260703_1808_DxO.jpg" alt="Photograph by Brandon Benton"></a>
-        <a href="pics/photos/118A4677_DxO.jpg"><img src="pics/photos/118A4677_DxO.jpg" alt="Photograph by Brandon Benton"></a>
-        <a href="pics/photos/118A4676_DxO.jpg"><img src="pics/photos/118A4676_DxO.jpg" alt="Photograph by Brandon Benton"></a>
-        <a href="pics/photos/118A4711_DxO.jpg"><img src="pics/photos/118A4711_DxO.jpg" alt="Photograph by Brandon Benton"></a>
-        <a href="pics/photos/118A4759_DxO.jpg"><img src="pics/photos/118A4759_DxO.jpg" alt="Photograph by Brandon Benton"></a>
-        <a href="pics/photos/118A1870_DxO.jpg"><img src="pics/photos/118A1870_DxO.jpg" alt="Photograph by Brandon Benton"></a>
-        <a href="pics/photos/118A4578_DxO.jpg"><img src="pics/photos/118A4578_DxO.jpg" alt="Photograph by Brandon Benton"></a>
-        <a href="pics/photos/118A4631_DxO.jpg"><img src="pics/photos/118A4631_DxO.jpg" alt="Photograph by Brandon Benton"></a>
-        <a href="pics/photos/118A4645_DxO.jpg"><img src="pics/photos/118A4645_DxO.jpg" alt="Photograph by Brandon Benton"></a>
-        <a href="pics/photos/118A4048_DxO.jpg"><img src="pics/photos/118A4048_DxO.jpg" alt="Photograph by Brandon Benton"></a>
-        <a href="pics/photos/118A4048_DxO-1.jpg"><img src="pics/photos/118A4048_DxO-1.jpg" alt="Photograph by Brandon Benton"></a>
-        <a href="pics/photos/4M6A6647_DxO.jpg"><img src="pics/photos/4M6A6647_DxO.jpg" alt="Photograph by Brandon Benton"></a>
-        <a href="pics/photos/118A9400_DxO.jpg"><img src="pics/photos/118A9400_DxO.jpg" alt="Photograph by Brandon Benton"></a>
-        <a href="pics/photos/118A4076_DxO.jpg"><img src="pics/photos/118A4076_DxO.jpg" alt="Photograph by Brandon Benton"></a>
-        <a href="pics/photos/4M6A5931_DxO.jpg"><img src="pics/photos/4M6A5931_DxO.jpg" alt="Photograph by Brandon Benton"></a>
-        <a href="pics/photos/118A3957_DxO.jpg"><img src="pics/photos/118A3957_DxO.jpg" alt="Photograph by Brandon Benton"></a>
-        <a href="pics/photos/118A2983_DxO.jpg"><img src="pics/photos/118A2983_DxO.jpg" alt="Photograph by Brandon Benton"></a>
-        <a href="pics/photos/118A2270_DxO.jpg"><img src="pics/photos/118A2270_DxO.jpg" alt="Photograph by Brandon Benton"></a>
-        <a href="pics/photos/118A2431_DxO.jpg"><img src="pics/photos/118A2431_DxO.jpg" alt="Photograph by Brandon Benton"></a>
-        <a href="pics/photos/118A2484_DxO.jpg"><img src="pics/photos/118A2484_DxO.jpg" alt="Photograph by Brandon Benton"></a>
-        <a href="pics/photos/118A1810_DxO.jpg"><img src="pics/photos/118A1810_DxO.jpg" alt="Photograph by Brandon Benton"></a>
-        <a href="pics/photos/118A1919_DxO.jpg"><img src="pics/photos/118A1919_DxO.jpg" alt="Photograph by Brandon Benton"></a>
-        <a href="pics/photos/118A9986_DxO.jpg"><img src="pics/photos/118A9986_DxO.jpg" alt="Photograph by Brandon Benton"></a>
-        <a href="pics/photos/118A1713_DxO.jpg"><img src="pics/photos/118A1713_DxO.jpg" alt="Photograph by Brandon Benton"></a>
-        <a href="pics/photos/118A4142_DxO.jpg"><img src="pics/photos/118A4142_DxO.jpg" alt="Photograph by Brandon Benton"></a>
-        <a href="pics/photos/4M6A5968_DxO.jpg"><img src="pics/photos/4M6A5968_DxO.jpg" alt="Photograph by Brandon Benton"></a>
-        <a href="pics/photos/118A3399_DxO.jpg"><img src="pics/photos/118A3399_DxO.jpg" alt="Photograph by Brandon Benton"></a>
-        <a href="pics/photos/118A3546_DxO.jpg"><img src="pics/photos/118A3546_DxO.jpg" alt="Photograph by Brandon Benton"></a>
-        <a href="pics/photos/118A3396_DxO.jpg"><img src="pics/photos/118A3396_DxO.jpg" alt="Photograph by Brandon Benton"></a>
-        <a href="pics/photos/4M6A5337_DxO.jpg"><img src="pics/photos/4M6A5337_DxO.jpg" alt="Photograph by Brandon Benton"></a>
-        <a href="pics/photos/4M6A5347_DxO.jpg"><img src="pics/photos/4M6A5347_DxO.jpg" alt="Photograph by Brandon Benton"></a>
-        <a href="pics/photos/118A0348_DxO.jpg"><img src="pics/photos/118A0348_DxO.jpg" alt="Photograph by Brandon Benton"></a>
-        <a href="pics/photos/118A0350_DxO.jpg"><img src="pics/photos/118A0350_DxO.jpg" alt="Photograph by Brandon Benton"></a>
-        <a href="pics/photos/118A9807_DxO.jpg"><img src="pics/photos/118A9807_DxO.jpg" alt="Photograph by Brandon Benton"></a>
-        <a href="pics/photos/4M6A9264_DxO.jpg"><img src="pics/photos/4M6A9264_DxO.jpg" alt="Photograph by Brandon Benton"></a>
-        <a href="pics/photos/IMG_3507_DxO.jpg"><img src="pics/photos/IMG_3507_DxO.jpg" alt="Photograph by Brandon Benton"></a>
-        <a href="pics/photos/4M6A9246_DxO.jpg"><img src="pics/photos/4M6A9246_DxO.jpg" alt="Photograph by Brandon Benton"></a>
-        <a href="pics/photos/20260710_8167_DxO.jpg"><img src="pics/photos/20260710_8167_DxO.jpg" alt="Photograph by Brandon Benton"></a>
-        <a href="pics/photos/4M6A6122_DxO.jpg"><img src="pics/photos/4M6A6122_DxO.jpg" alt="Photograph by Brandon Benton"></a>
-        <a href="pics/photos/118A4746_DxO.jpg"><img src="pics/photos/118A4746_DxO.jpg" alt="Photograph by Brandon Benton"></a>
-        <a href="pics/photos/118A4760_DxO.jpg"><img src="pics/photos/118A4760_DxO.jpg" alt="Photograph by Brandon Benton"></a>
+        <a href="pics/photos/20260703_1791_DxO.jpg"><img src="pics/photos/20260703_1791_DxO.jpg" alt="Photograph by Brandon Benton"></a>
       </div>
     </main>
     <div class="lightbox" aria-hidden="true" id="lightbox">
